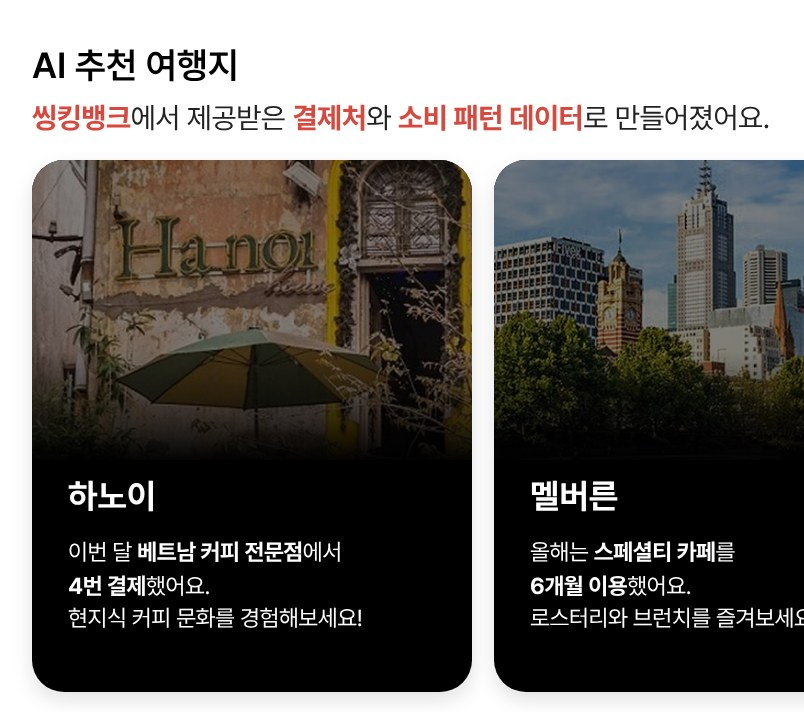
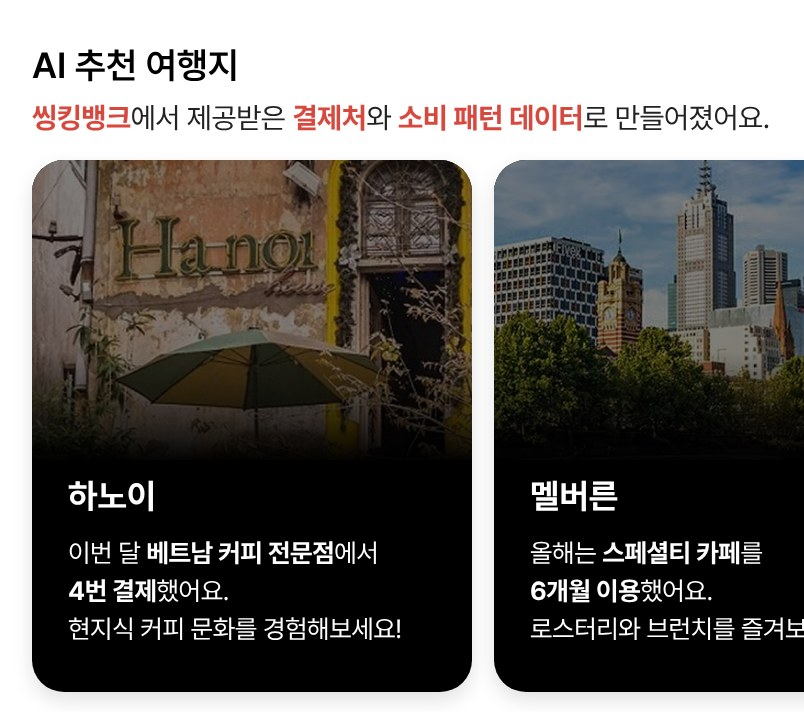
파일럿: 씽킹트래블 카드 설명 글씨 11.5px → 13px, T2 씽킹트래블 캡처도 갱신
Claude-Session: https://claude.ai/code/session_012gUV7ezSBGMu5uWGs5Kzpf

Changed region(s): [[0.0622, 0.7416, 0.4975, 0.8961], [0.653, 0.7416, 1.0, 0.8961]]

diff --git a/Pilot.html b/Pilot.html
@@ -468,7 +468,7 @@ body.narrow:not(.participant) .rv-open{display:flex;position:fixed;right:12px;bo
 .tcard img{position:absolute;left:0;top:0;width:100%;height:150px;object-fit:cover}
 .tcard::after{content:'';position:absolute;left:0;right:0;top:96px;height:56px;background:linear-gradient(rgba(0,0,0,0),#000)}
 .tcard .nm{position:absolute;left:18px;top:158px;font-size:17px;font-weight:700;z-index:1}
-.tcard .ds{position:absolute;left:18px;width:190px;top:188px;font-size:11.5px;word-break:keep-all;overflow-wrap:anywhere;font-weight:400;line-height:1.45;white-space:pre-line;z-index:1;letter-spacing:-.2px}
+.tcard .ds{position:absolute;left:18px;width:196px;top:188px;font-size:13px;word-break:keep-all;overflow-wrap:anywhere;font-weight:400;line-height:1.45;white-space:pre-line;z-index:1;letter-spacing:-.2px}
 .tcard .ds b{font-weight:700}
 /* 금융 홈: 소비 분석 */
 .sa-lbl{font-size:11.5px;color:#9a9a9a;font-weight:500}

diff --git a/README.md b/README.md
@@ -34,6 +34,7 @@
     - 2장: 데이터 칩 두 개가 흐려지며 겹쳐 흰 박스 → 박스가 터지며 추천 예시 등장 (실제 카드·포스터 대신 단색 박스 + 문구: 금융 '빵지순례자를 위한 맞춤 카드' / OTT '당신을 위한 잔잔힐링 콘텐츠')
     - 그림 크기: 장마다 그림만 0.75배(CFG.NOTICE_ART), 폴더는 한 번 더 0.9배 — 글씨 크기는 그대로
     - 3장: 칩 두 개가 모여 폴더 입구로 내려가(아이콘만 보임) 폴더 뒤판과 앞판 사이로 들어간 뒤 폴더가 한 번 튀어 오름
+  - 씽킹트래블 카드 속 설명 글씨: 11.5px → 13px (세 줄 그대로)
   - 씽킹트래블 출처 소제목: 14.5px(금융·OTT 모두 한 줄에 들어가는 가장 큰 크기), 굵은 부분은 빨간 굵은 글씨
   - T2: 9번(목적 회상) 앞에 고지 3장 캡처(img/cap_notice_pilot_{fin,ott}.png, 목적 구·범위 구를 회색으로 가림), 5번 앞 씽킹트래블 캡처는 img/cap_travel_pilot_{fin,ott}.jpg (본실험 캡처 파일은 그대로)
   - 문항 묶음 박스(검은 머리 + 필요하면 안내 박스 + 문항 사이 구분선). 문항 목록의 { type: 'group', title, note }로 지정
